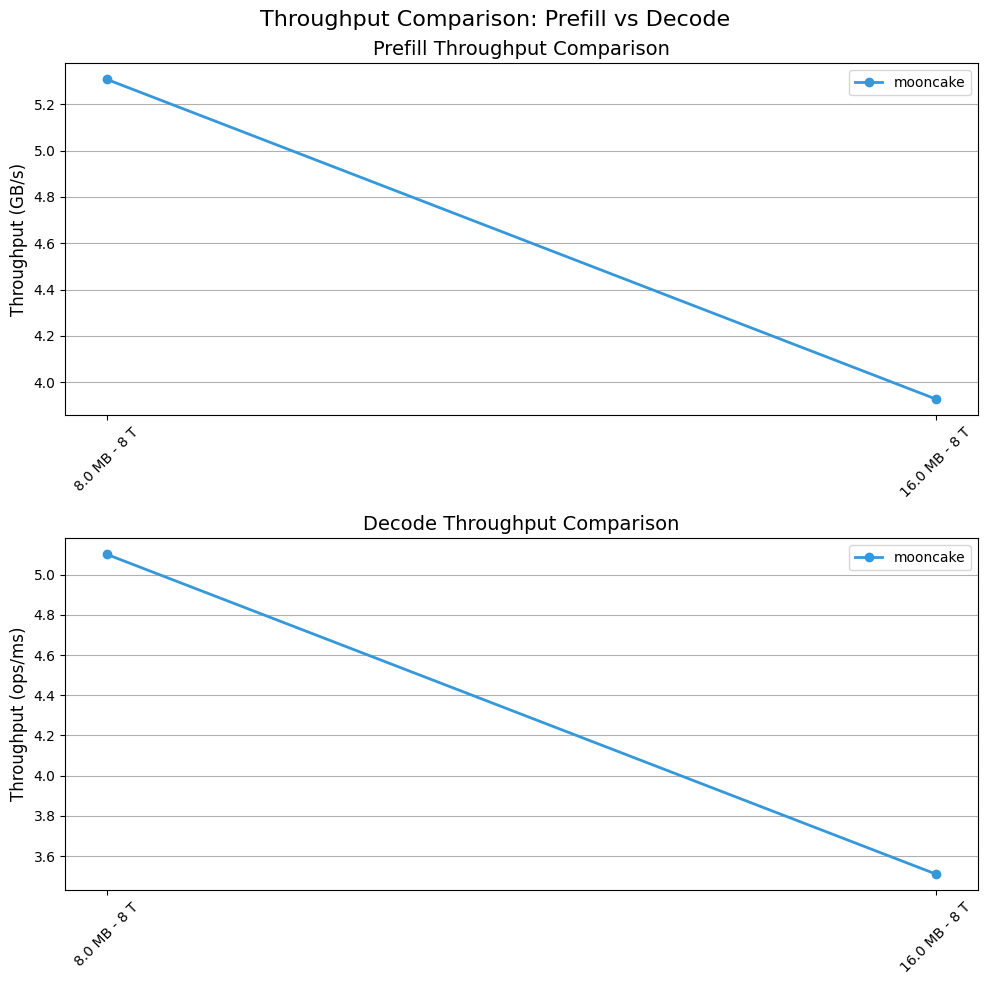
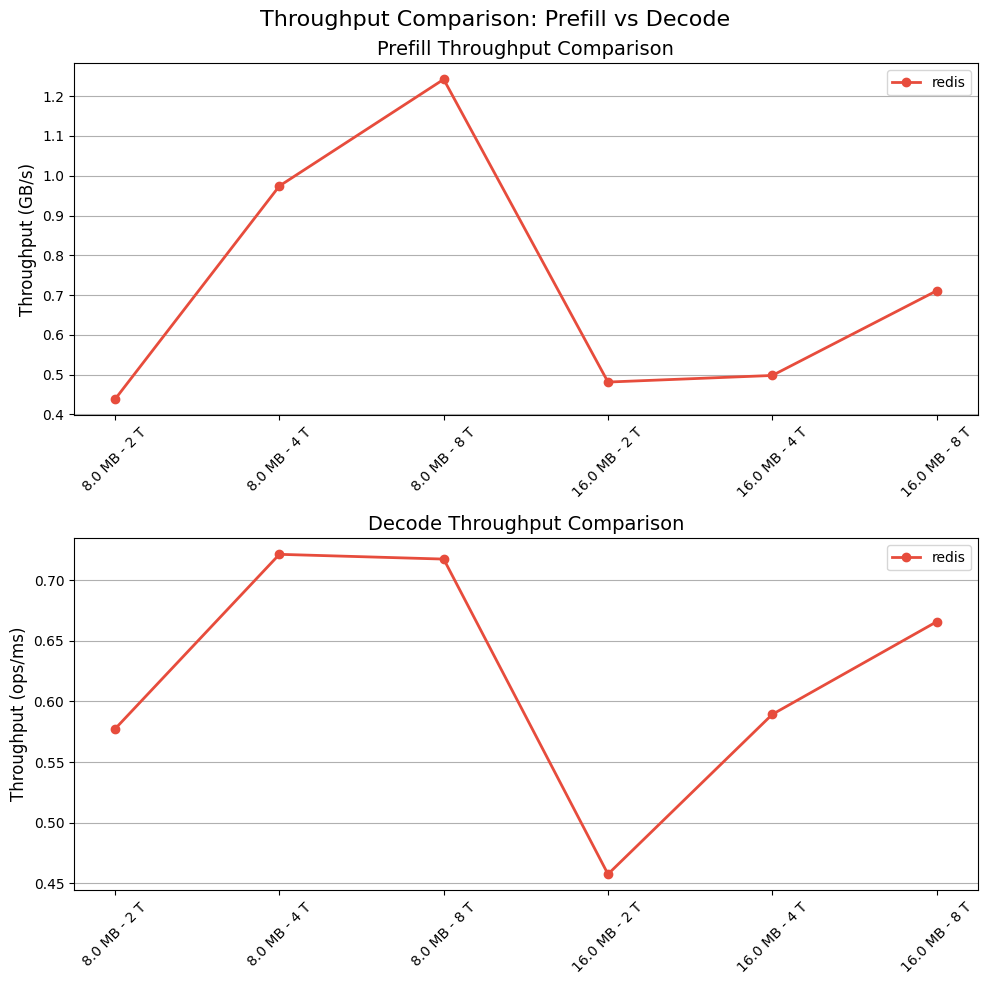
backup

diff --git a/mooncake-transfer-engine/src/transport/rdma_transport/worker_pool.cpp b/mooncake-transfer-engine/src/transport/rdma_transport/worker_pool.cpp
@@ -204,33 +204,6 @@ void WorkerPool::performPostSend(int thread_id) {
     for (auto &entry : local_slice_queue) {
         if (entry.second.empty()) continue;
 
-        if (entry.second[0]->target_id == LOCAL_SEGMENT_ID) {
-            for (auto &slice : entry.second) {
-                LOG_ASSERT(slice->target_id == LOCAL_SEGMENT_ID);
-#ifdef USE_CUDA
-                if (slice->opcode == TransferRequest::READ)
-                    cudaMemcpy(slice->source_addr,
-                               (void *)slice->rdma.dest_addr, slice->length,
-                               cudaMemcpyDefault);
-                else
-                    cudaMemcpy((void *)slice->rdma.dest_addr,
-                               slice->source_addr, slice->length,
-                               cudaMemcpyDefault);
-#else
-                if (slice->opcode == TransferRequest::READ)
-                    memcpy(slice->source_addr, (void *)slice->rdma.dest_addr,
-                           slice->length);
-                else
-                    memcpy((void *)slice->rdma.dest_addr, slice->source_addr,
-                           slice->length);
-#endif
-                slice->markSuccess();
-            }
-            processed_slice_count_.fetch_add(entry.second.size());
-            entry.second.clear();
-            continue;
-        }
-
 #ifdef USE_FAKE_POST_SEND
         for (auto &slice : entry.second) slice->markSuccess();
         processed_slice_count_.fetch_add(entry.second.size());

diff --git a/mooncake-store/bench/run_experiments.py b/mooncake-store/bench/run_experiments.py
@@ -21,11 +21,11 @@ from typing import List, Tuple, Optional
 # tcp: 1.8875GB/s
 # rdma: 12.25GB/s
 BENCHMARK_SCRIPT = "./run_benchmark.sh"
-ENGINES = ["mooncake"]
-# VALUE_SIZES = [524288,1048576,8388608,16777200]
-# THREAD_COUNTS = [2,4,8]
+ENGINES = ["redis"]
 VALUE_SIZES = [8388608,16777200]
-THREAD_COUNTS = [8]
+THREAD_COUNTS = [2,4,8]
+# VALUE_SIZES = [16777200]
+# THREAD_COUNTS = [2,4,8]
 NUM_OPS = 2000
 RESULTS_DIR = "./results"
 RESULTS_FILE = f"{RESULTS_DIR}/benchmark_results.csv"
